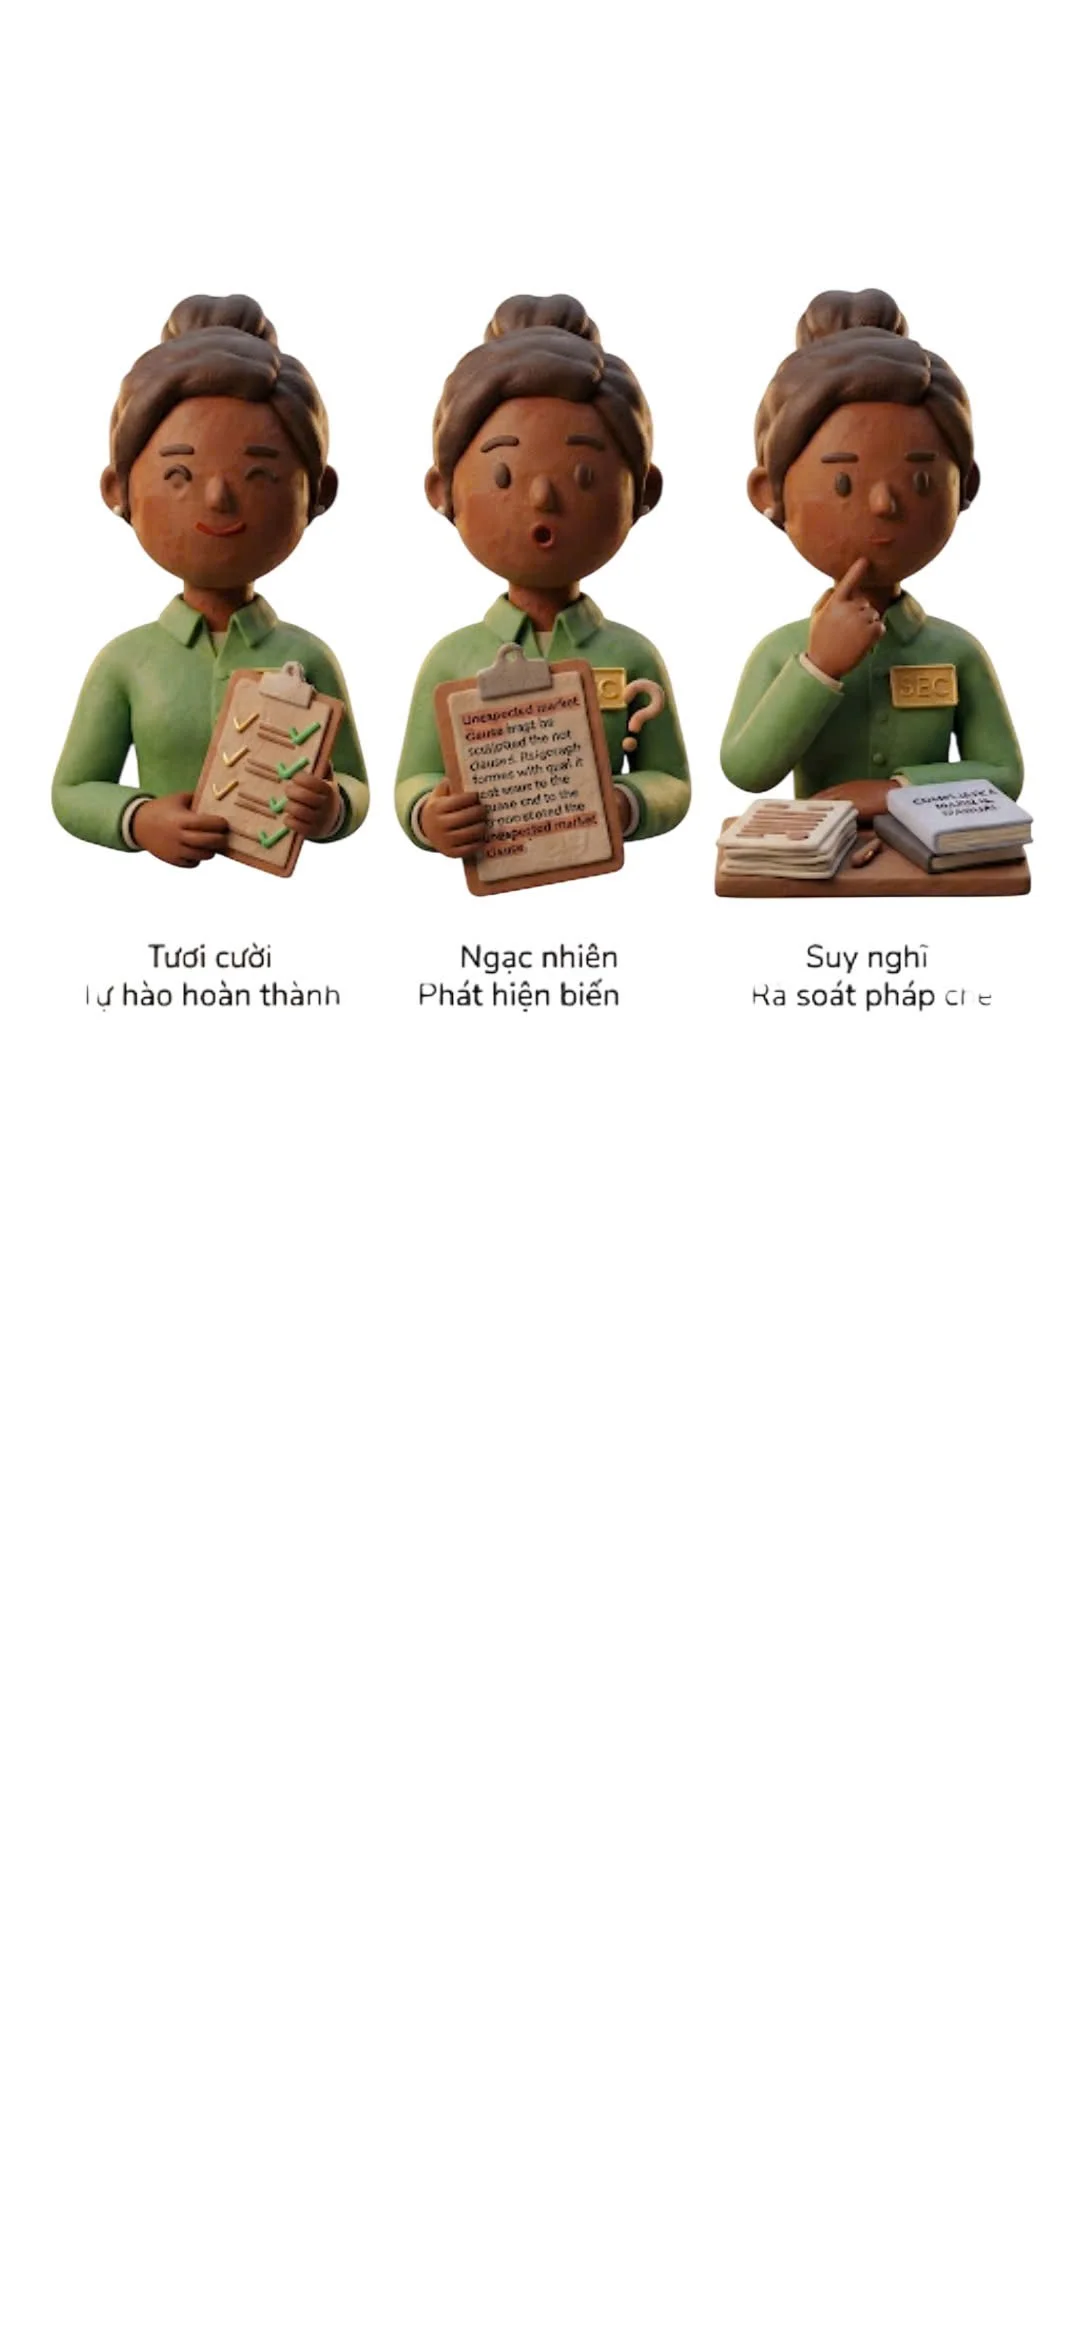
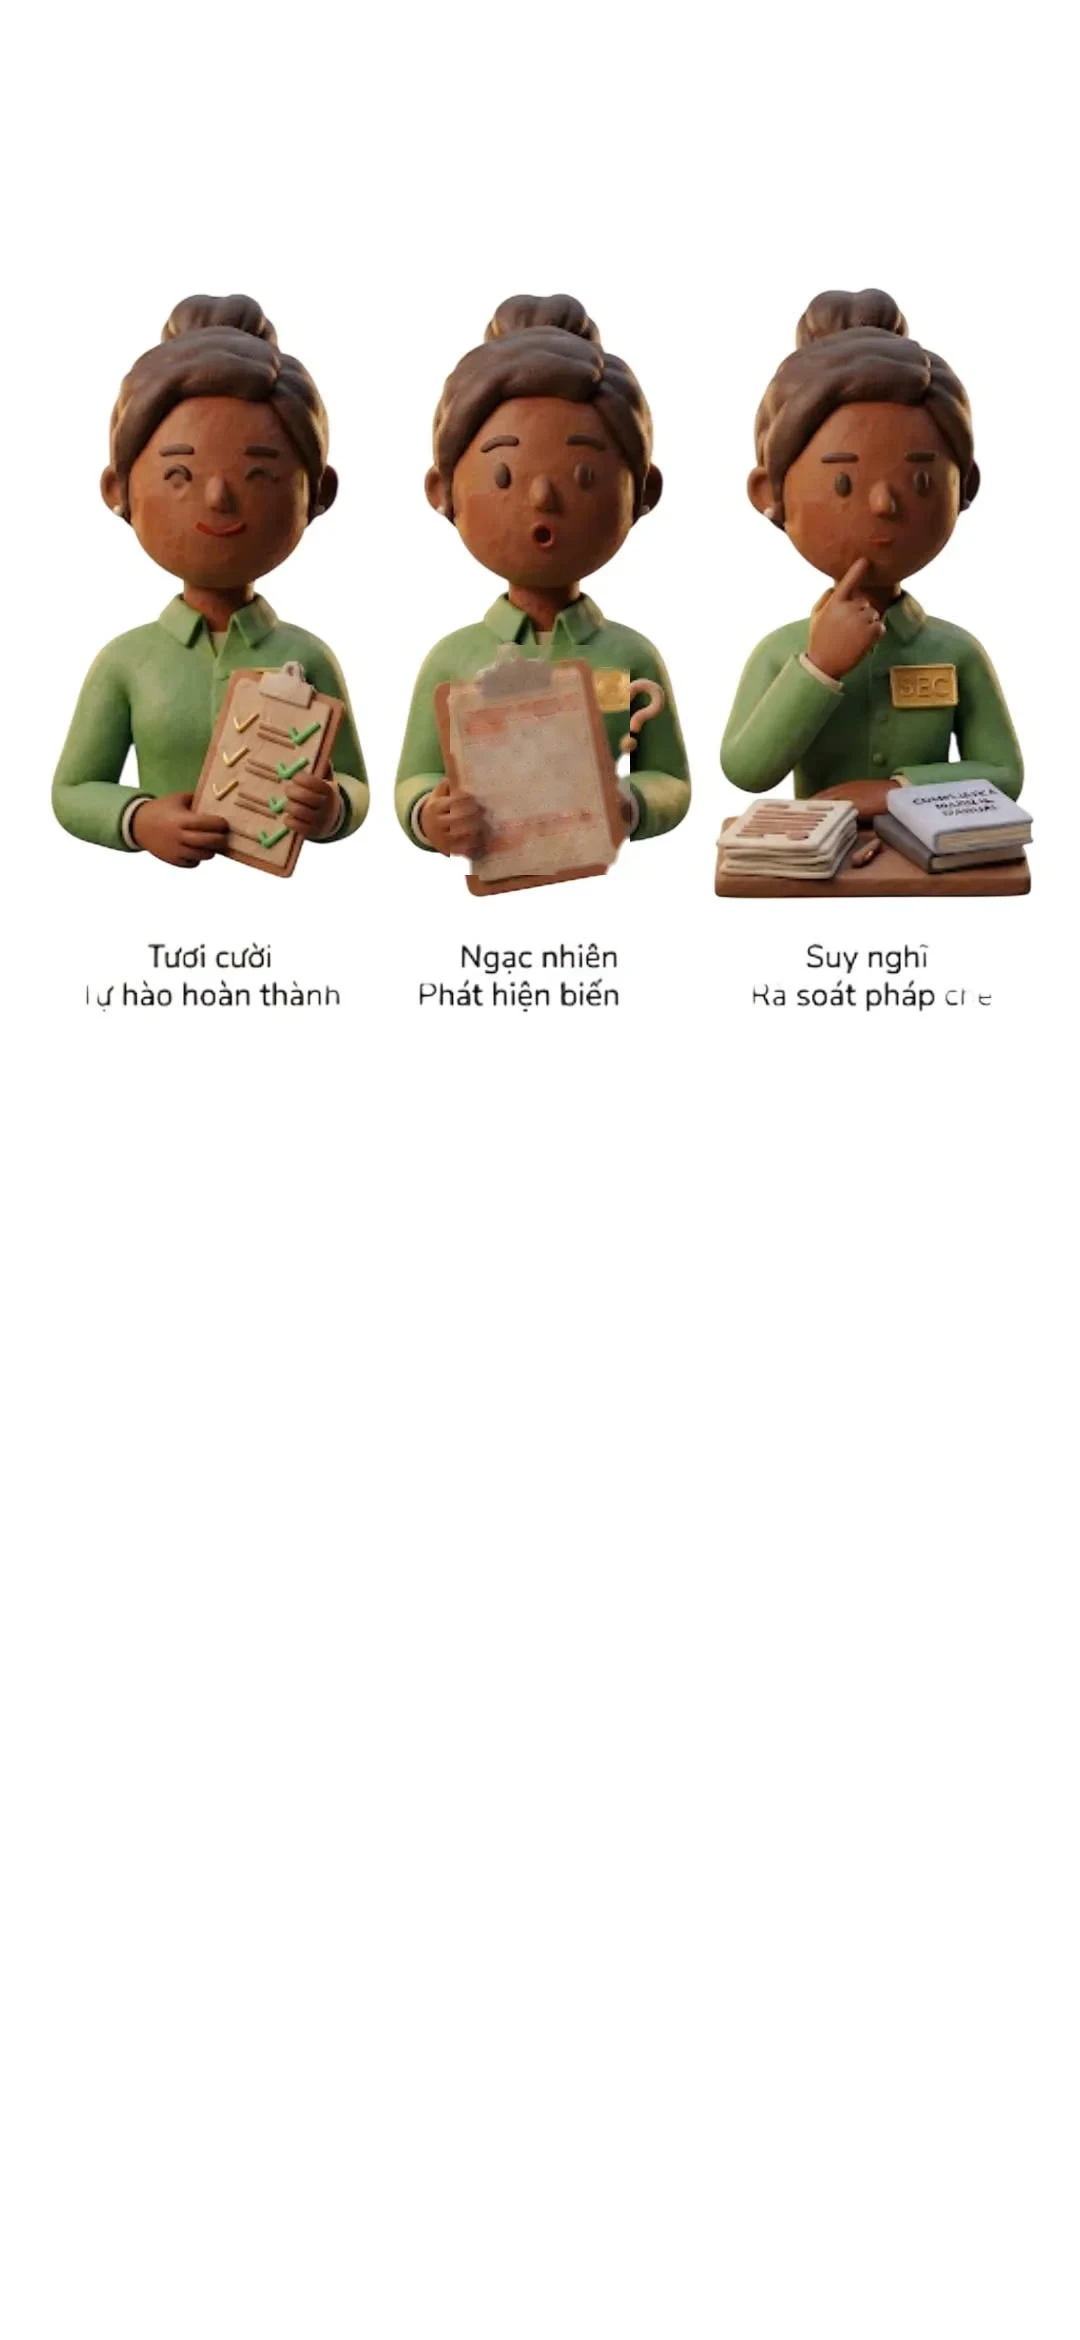
Thư viện Sáng tạo: xóa chữ thừa trên 3 ảnh biểu cảm COO/CMO/SEC
- COO: xóa dòng chữ bóng ma cắt xén ở mép trên ảnh (không thuộc phần
  chú thích thật, chỉ là hạt sạn còn sót từ khâu tạo sinh).
- CMO: xóa từ "clag" trôi nổi cạnh chú thích quý 3.
- SEC: dùng inpainting (OpenCV TELEA) xóa đoạn văn giả tiếng Anh vô
  nghĩa trên tấm bảng kẹp giấy của tư thế giữa, giữ lại kết cấu giấy
  và khung gỗ tự nhiên thay vì để lộ mảng màu phẳng.

Bỏ luôn câu ghi chú "vài tấm còn hạt sạn nhỏ do AI tạo sinh" trong
thu-vien.html vì không còn cần thiết.

Changed region(s): [[0.3972, 0.2808, 0.5806, 0.3744]]

diff --git a/thu-vien.html b/thu-vien.html
@@ -145,7 +145,7 @@
         <img src="assets/character/expressions/aodai-nam-expressions.webp" alt="Bảng 3 biểu cảm của đại diện đội áo dài nam" class="w-full rounded-xl" loading="lazy">
         <img src="assets/character/expressions/aodai-nu-expressions.webp" alt="Bảng 3 biểu cảm của đại diện đội áo dài nữ" class="w-full rounded-xl" loading="lazy">
       </div>
-      <p class="text-[10px] text-deep-teal/50 text-center mt-3">Mỗi nhân vật 3 trạng thái biểu cảm (hài lòng/tự hào, ngạc nhiên, suy nghĩ) – chuẩn bị cho các tình huống thoại tương tác sau này. Vài tấm còn vài hạt sạn nhỏ do AI tạo sinh (chữ dư dòng tiêu đề, chữ giả trên đạo cụ) – dùng tạm cho tới bản làm lại.</p>
+      <p class="text-[10px] text-deep-teal/50 text-center mt-3">Mỗi nhân vật 3 trạng thái biểu cảm (hài lòng/tự hào, ngạc nhiên, suy nghĩ) – chuẩn bị cho các tình huống thoại tương tác sau này.</p>
     </div>
     <div class="clay-card art-card p-4 mt-4">
       <img src="assets/character/team/lineup-cut.webp" alt="Đội Demo 5 nhân vật đất sét" class="w-full max-w-2xl mx-auto drop-shadow-xl" loading="lazy">
